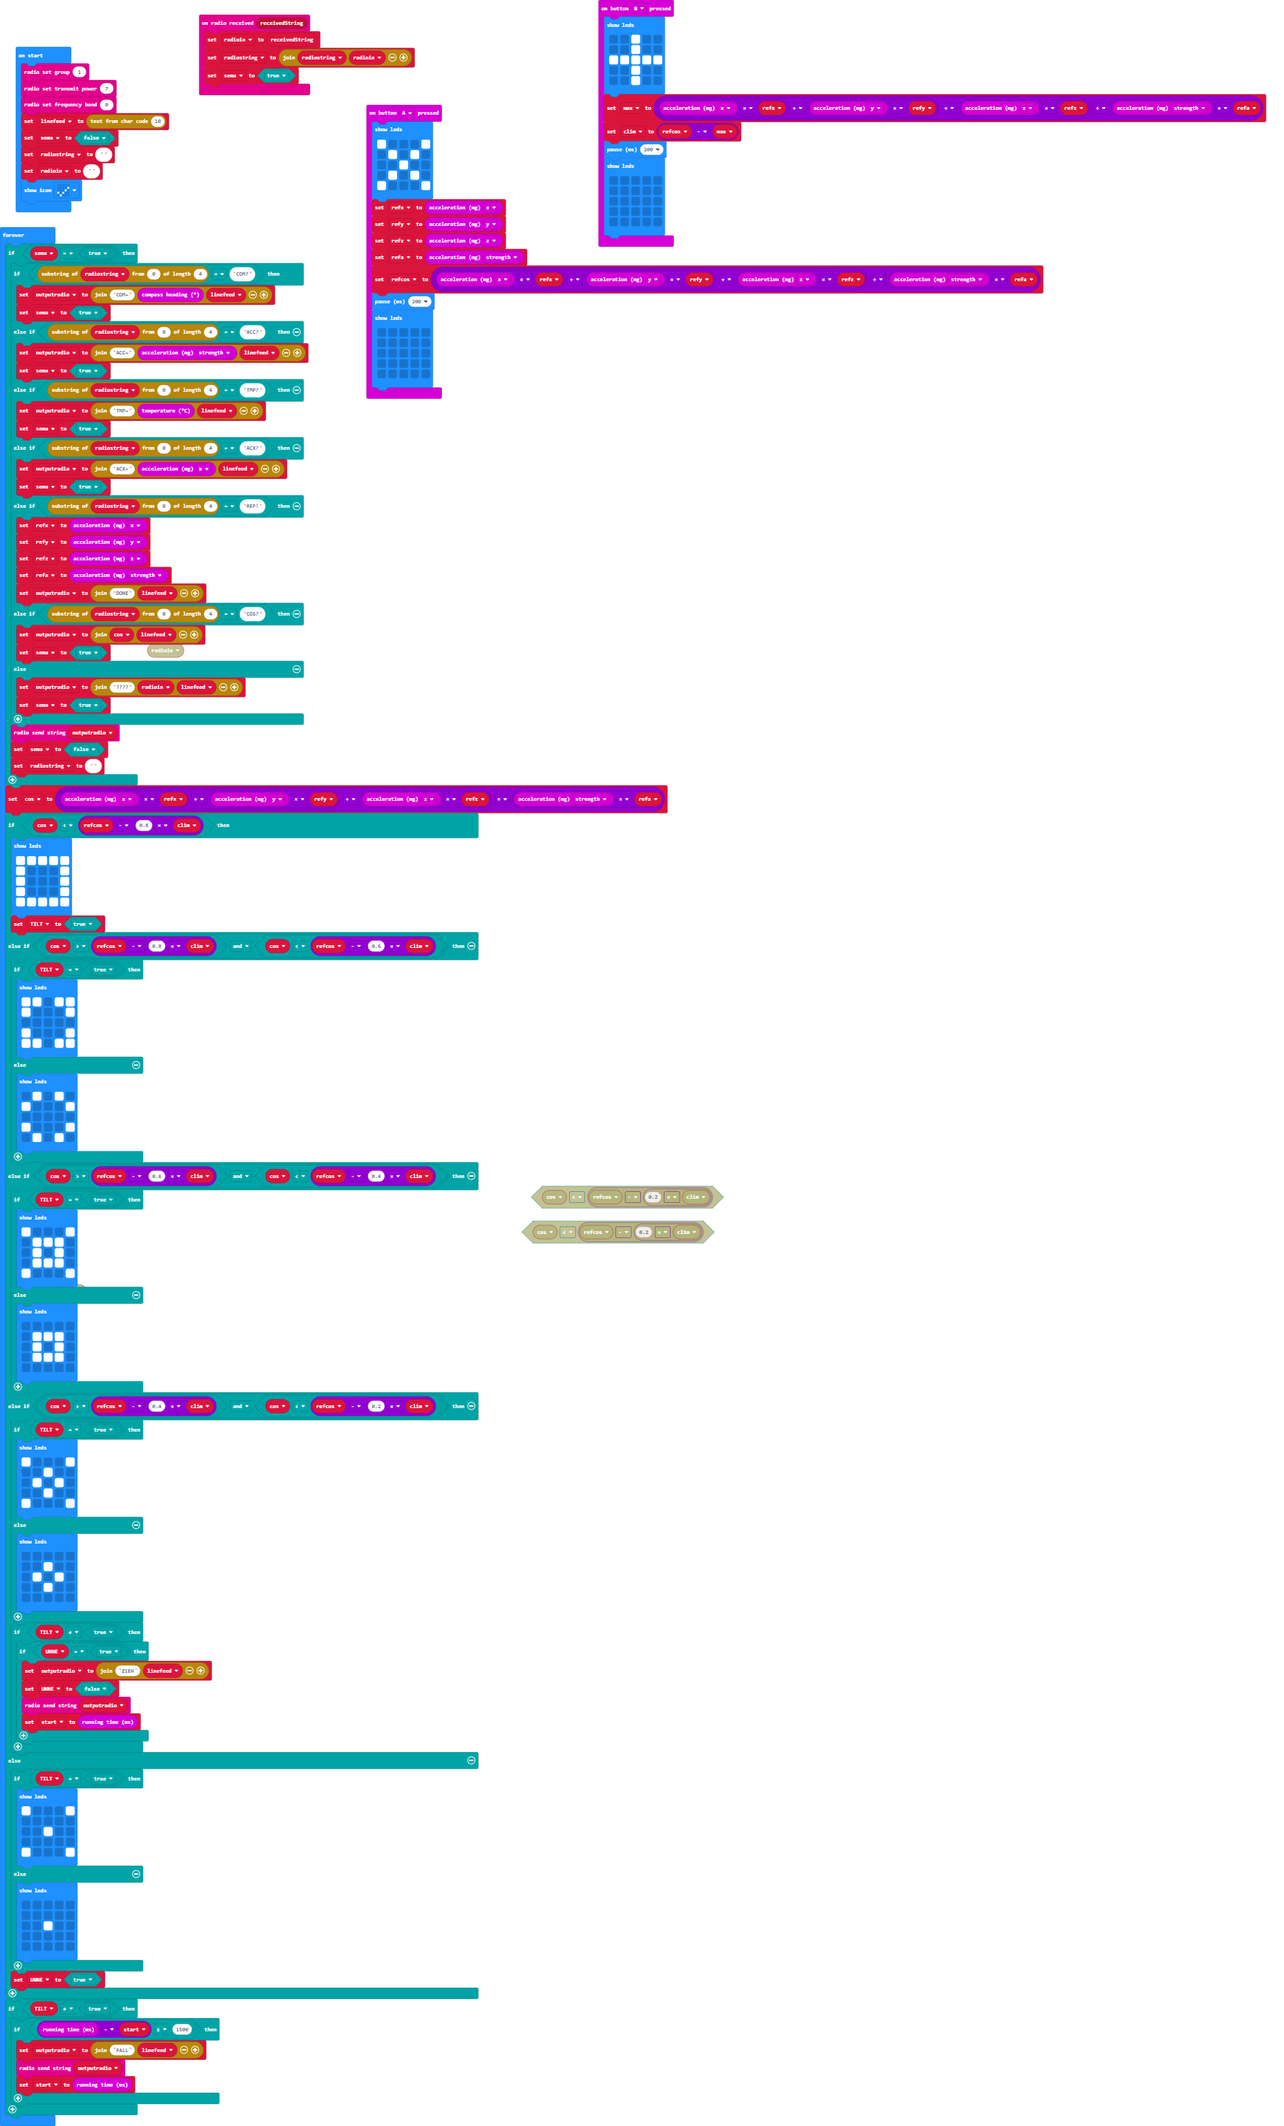
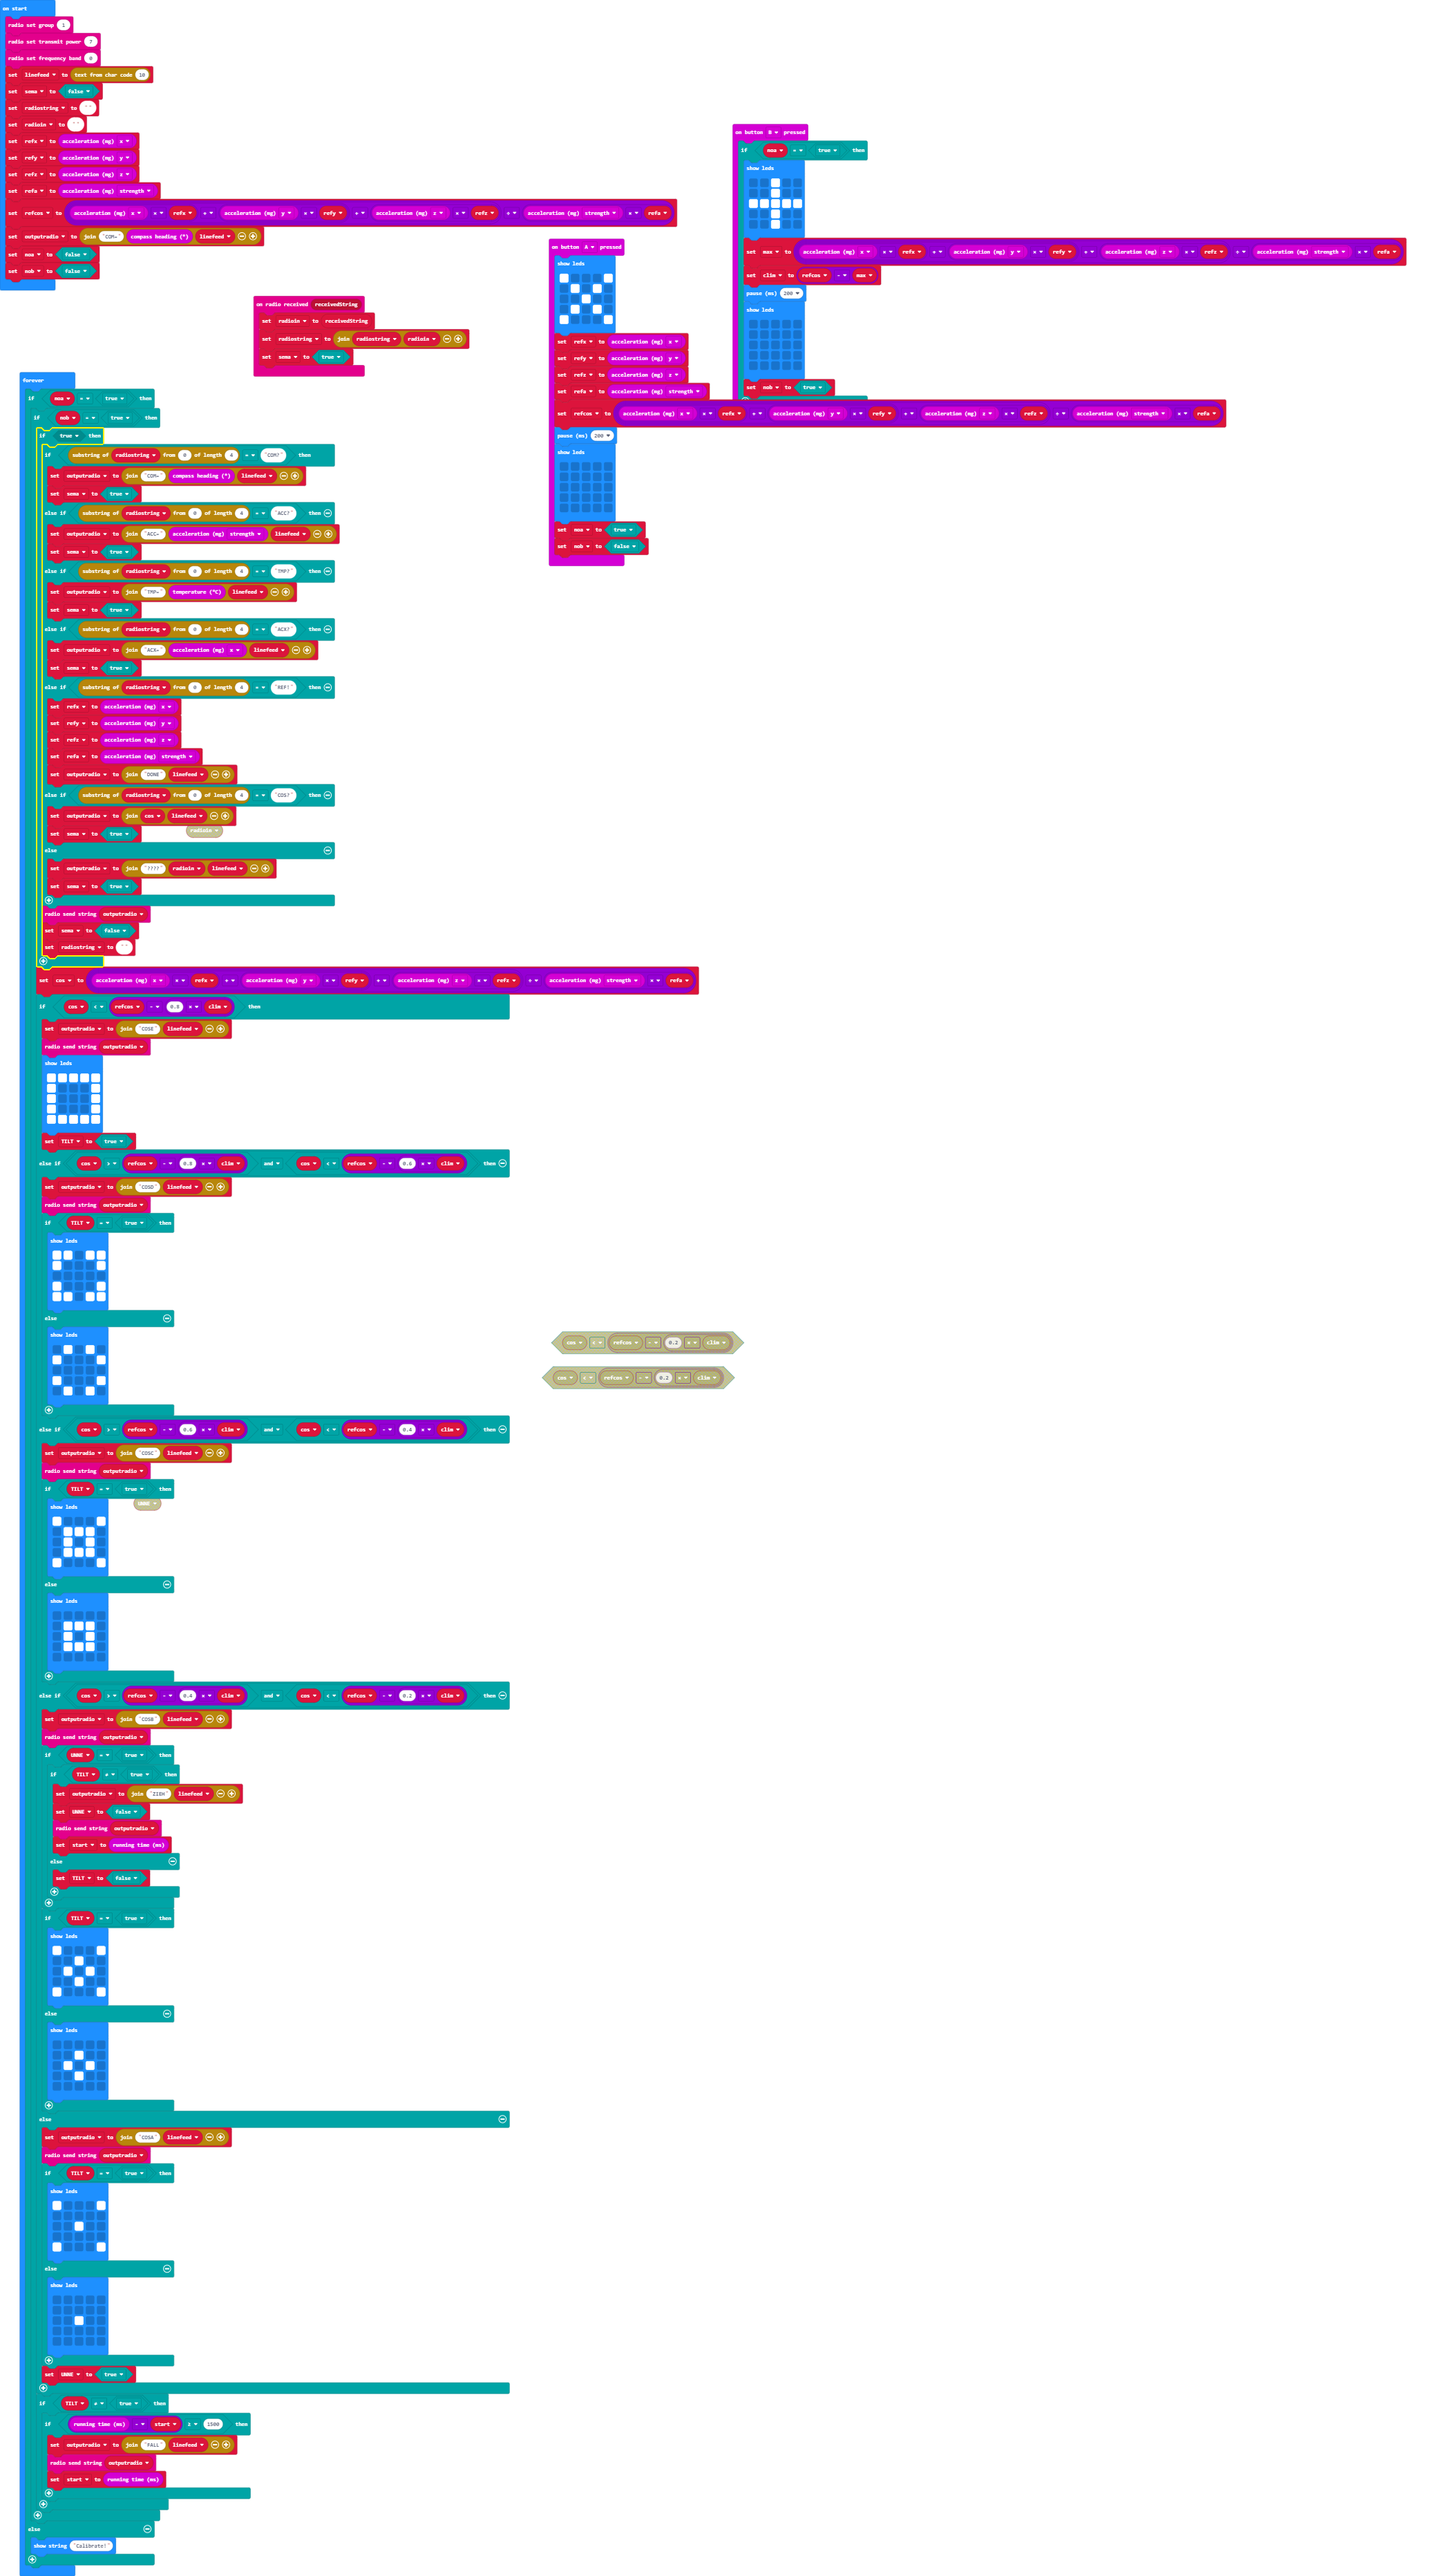
Update main.blocks, main.ts

Changed region(s): [[0.0, 0.0, 0.9984, 1.0]]

diff --git a/main.ts b/main.ts
@@ -19,6 +19,8 @@ input.onButtonPressed(Button.A, function () {
         . . . . .
         . . . . .
         `)
+    noa = true
+    nob = false
 })
 radio.onReceivedString(function (receivedString) {
     radioin = receivedString
@@ -26,31 +28,35 @@ radio.onReceivedString(function (receivedString) {
     sema = true
 })
 input.onButtonPressed(Button.B, function () {
-    basic.showLeds(`
-        . . # . .
-        . . # . .
-        # # # # #
-        . . # . .
-        . . # . .
-        `)
-    max = (input.acceleration(Dimension.X) * refx + input.acceleration(Dimension.Y) * refy + input.acceleration(Dimension.Z) * refz) / (input.acceleration(Dimension.Strength) * refa)
-    clim = refcos - max
-    basic.pause(200)
-    basic.showLeds(`
-        . . . . .
-        . . . . .
-        . . . . .
-        . . . . .
-        . . . . .
-        `)
+    if (noa == true) {
+        basic.showLeds(`
+            . . # . .
+            . . # . .
+            # # # # #
+            . . # . .
+            . . # . .
+            `)
+        max = (input.acceleration(Dimension.X) * refx + input.acceleration(Dimension.Y) * refy + input.acceleration(Dimension.Z) * refz) / (input.acceleration(Dimension.Strength) * refa)
+        clim = refcos - max
+        basic.pause(200)
+        basic.showLeds(`
+            . . . . .
+            . . . . .
+            . . . . .
+            . . . . .
+            . . . . .
+            `)
+        nob = true
+    }
 })
 let start = 0
 let UNNE = false
 let TILT = false
 let cos = 0
-let outputradio = ""
 let clim = 0
 let max = 0
+let nob = false
+let noa = false
 let refcos = 0
 let refa = 0
 let refz = 0
@@ -66,135 +72,160 @@ let linefeed = String.fromCharCode(10)
 sema = false
 radiostring = ""
 radioin = ""
-basic.showIcon(IconNames.Yes)
+refx = input.acceleration(Dimension.X)
+refy = input.acceleration(Dimension.Y)
+refz = input.acceleration(Dimension.Z)
+refa = input.acceleration(Dimension.Strength)
+refcos = (input.acceleration(Dimension.X) * refx + input.acceleration(Dimension.Y) * refy + input.acceleration(Dimension.Z) * refz) / (input.acceleration(Dimension.Strength) * refa)
+let outputradio = "COM=" + input.compassHeading() + linefeed
+noa = false
+nob = false
 basic.forever(function () {
-    if (sema == true) {
-        if (radiostring.substr(0, 4) == "COM?") {
-            outputradio = "COM=" + input.compassHeading() + linefeed
-            sema = true
-        } else if (radiostring.substr(0, 4) == "ACC?") {
-            outputradio = "ACC=" + input.acceleration(Dimension.Strength) + linefeed
-            sema = true
-        } else if (radiostring.substr(0, 4) == "TMP?") {
-            outputradio = "TMP=" + input.temperature() + linefeed
-            sema = true
-        } else if (radiostring.substr(0, 4) == "ACX?") {
-            outputradio = "ACX=" + input.acceleration(Dimension.X) + linefeed
-            sema = true
-        } else if (radiostring.substr(0, 4) == "REF!") {
-            refx = input.acceleration(Dimension.X)
-            refy = input.acceleration(Dimension.Y)
-            refz = input.acceleration(Dimension.Z)
-            refa = input.acceleration(Dimension.Strength)
-            outputradio = "DONE" + linefeed
-        } else if (radiostring.substr(0, 4) == "COS?") {
-            outputradio = "" + cos + linefeed
-            sema = true
-        } else {
-            outputradio = "????" + radioin + linefeed
-            sema = true
-        }
-        radio.sendString(outputradio)
-        sema = false
-        radiostring = ""
-    }
-    cos = (input.acceleration(Dimension.X) * refx + input.acceleration(Dimension.Y) * refy + input.acceleration(Dimension.Z) * refz) / (input.acceleration(Dimension.Strength) * refa)
-    if (cos < refcos - 0.8 * clim) {
-        basic.showLeds(`
-            # # # # #
-            # . . . #
-            # . . . #
-            # . . . #
-            # # # # #
-            `)
-        TILT = true
-    } else if (cos > refcos - 0.8 * clim && cos < refcos - 0.6 * clim) {
-        if (TILT == true) {
-            basic.showLeds(`
-                # # . # #
-                # . . . #
-                . . . . .
-                # . . . #
-                # # . # #
-                `)
-        } else {
-            basic.showLeds(`
-                . # . # .
-                # . . . #
-                . . . . .
-                # . . . #
-                . # . # .
-                `)
-        }
-    } else if (cos > refcos - 0.6 * clim && cos < refcos - 0.4 * clim) {
-        if (TILT == true) {
-            basic.showLeds(`
-                # . . . #
-                . # # # .
-                . # . # .
-                . # # # .
-                # . . . #
-                `)
-        } else {
-            basic.showLeds(`
-                . . . . .
-                . # # # .
-                . # . # .
-                . # # # .
-                . . . . .
-                `)
-        }
-    } else if (cos > refcos - 0.4 * clim && cos < refcos - 0.2 * clim) {
-        if (TILT == true) {
-            basic.showLeds(`
-                # . . . #
-                . . # . .
-                . # . # .
-                . . # . .
-                # . . . #
-                `)
-        } else {
-            basic.showLeds(`
-                . . . . .
-                . . # . .
-                . # . # .
-                . . # . .
-                . . . . .
-                `)
-        }
-        if (TILT != true) {
-            if (UNNE == true) {
-                outputradio = "ZIEH" + linefeed
-                UNNE = false
+    if (noa == true) {
+        if (nob == true) {
+            if (true) {
+                if (radiostring.substr(0, 4) == "COM?") {
+                    outputradio = "COM=" + input.compassHeading() + linefeed
+                    sema = true
+                } else if (radiostring.substr(0, 4) == "ACC?") {
+                    outputradio = "ACC=" + input.acceleration(Dimension.Strength) + linefeed
+                    sema = true
+                } else if (radiostring.substr(0, 4) == "TMP?") {
+                    outputradio = "TMP=" + input.temperature() + linefeed
+                    sema = true
+                } else if (radiostring.substr(0, 4) == "ACX?") {
+                    outputradio = "ACX=" + input.acceleration(Dimension.X) + linefeed
+                    sema = true
+                } else if (radiostring.substr(0, 4) == "REF!") {
+                    refx = input.acceleration(Dimension.X)
+                    refy = input.acceleration(Dimension.Y)
+                    refz = input.acceleration(Dimension.Z)
+                    refa = input.acceleration(Dimension.Strength)
+                    outputradio = "DONE" + linefeed
+                } else if (radiostring.substr(0, 4) == "COS?") {
+                    outputradio = "" + cos + linefeed
+                    sema = true
+                } else {
+                    outputradio = "????" + radioin + linefeed
+                    sema = true
+                }
                 radio.sendString(outputradio)
-                start = input.runningTime()
+                sema = false
+                radiostring = ""
+            }
+            cos = (input.acceleration(Dimension.X) * refx + input.acceleration(Dimension.Y) * refy + input.acceleration(Dimension.Z) * refz) / (input.acceleration(Dimension.Strength) * refa)
+            if (cos < refcos - 0.8 * clim) {
+                outputradio = "COSE" + linefeed
+                radio.sendString(outputradio)
+                basic.showLeds(`
+                    # # # # #
+                    # . . . #
+                    # . . . #
+                    # . . . #
+                    # # # # #
+                    `)
+                TILT = true
+            } else if (cos > refcos - 0.8 * clim && cos < refcos - 0.6 * clim) {
+                outputradio = "COSD" + linefeed
+                radio.sendString(outputradio)
+                if (TILT == true) {
+                    basic.showLeds(`
+                        # # . # #
+                        # . . . #
+                        . . . . .
+                        # . . . #
+                        # # . # #
+                        `)
+                } else {
+                    basic.showLeds(`
+                        . # . # .
+                        # . . . #
+                        . . . . .
+                        # . . . #
+                        . # . # .
+                        `)
+                }
+            } else if (cos > refcos - 0.6 * clim && cos < refcos - 0.4 * clim) {
+                outputradio = "COSC" + linefeed
+                radio.sendString(outputradio)
+                if (TILT == true) {
+                    basic.showLeds(`
+                        # . . . #
+                        . # # # .
+                        . # . # .
+                        . # # # .
+                        # . . . #
+                        `)
+                } else {
+                    basic.showLeds(`
+                        . . . . .
+                        . # # # .
+                        . # . # .
+                        . # # # .
+                        . . . . .
+                        `)
+                }
+            } else if (cos > refcos - 0.4 * clim && cos < refcos - 0.2 * clim) {
+                outputradio = "COSB" + linefeed
+                radio.sendString(outputradio)
+                if (UNNE == true) {
+                    if (TILT != true) {
+                        outputradio = "ZIEH" + linefeed
+                        UNNE = false
+                        radio.sendString(outputradio)
+                        start = input.runningTime()
+                    } else {
+                        TILT = false
+                    }
+                }
+                if (TILT == true) {
+                    basic.showLeds(`
+                        # . . . #
+                        . . # . .
+                        . # . # .
+                        . . # . .
+                        # . . . #
+                        `)
+                } else {
+                    basic.showLeds(`
+                        . . . . .
+                        . . # . .
+                        . # . # .
+                        . . # . .
+                        . . . . .
+                        `)
+                }
+            } else {
+                outputradio = "COSA" + linefeed
+                radio.sendString(outputradio)
+                if (TILT == true) {
+                    basic.showLeds(`
+                        # . . . #
+                        . . . . .
+                        . . # . .
+                        . . . . .
+                        # . . . #
+                        `)
+                } else {
+                    basic.showLeds(`
+                        . . . . .
+                        . . . . .
+                        . . # . .
+                        . . . . .
+                        . . . . .
+                        `)
+                }
+                UNNE = true
+            }
+            if (TILT != true) {
+                if (input.runningTime() - start >= 1500) {
+                    outputradio = "FALL" + linefeed
+                    radio.sendString(outputradio)
+                    start = input.runningTime()
+                }
             }
         }
     } else {
-        if (TILT == true) {
-            basic.showLeds(`
-                # . . . #
-                . . . . .
-                . . # . .
-                . . . . .
-                # . . . #
-                `)
-        } else {
-            basic.showLeds(`
-                . . . . .
-                . . . . .
-                . . # . .
-                . . . . .
-                . . . . .
-                `)
-        }
-        UNNE = true
-    }
-    if (TILT != true) {
-        if (input.runningTime() - start >= 1500) {
-            outputradio = "FALL" + linefeed
-            radio.sendString(outputradio)
-            start = input.runningTime()
-        }
+        basic.showString("Calibrate!")
     }
 })
